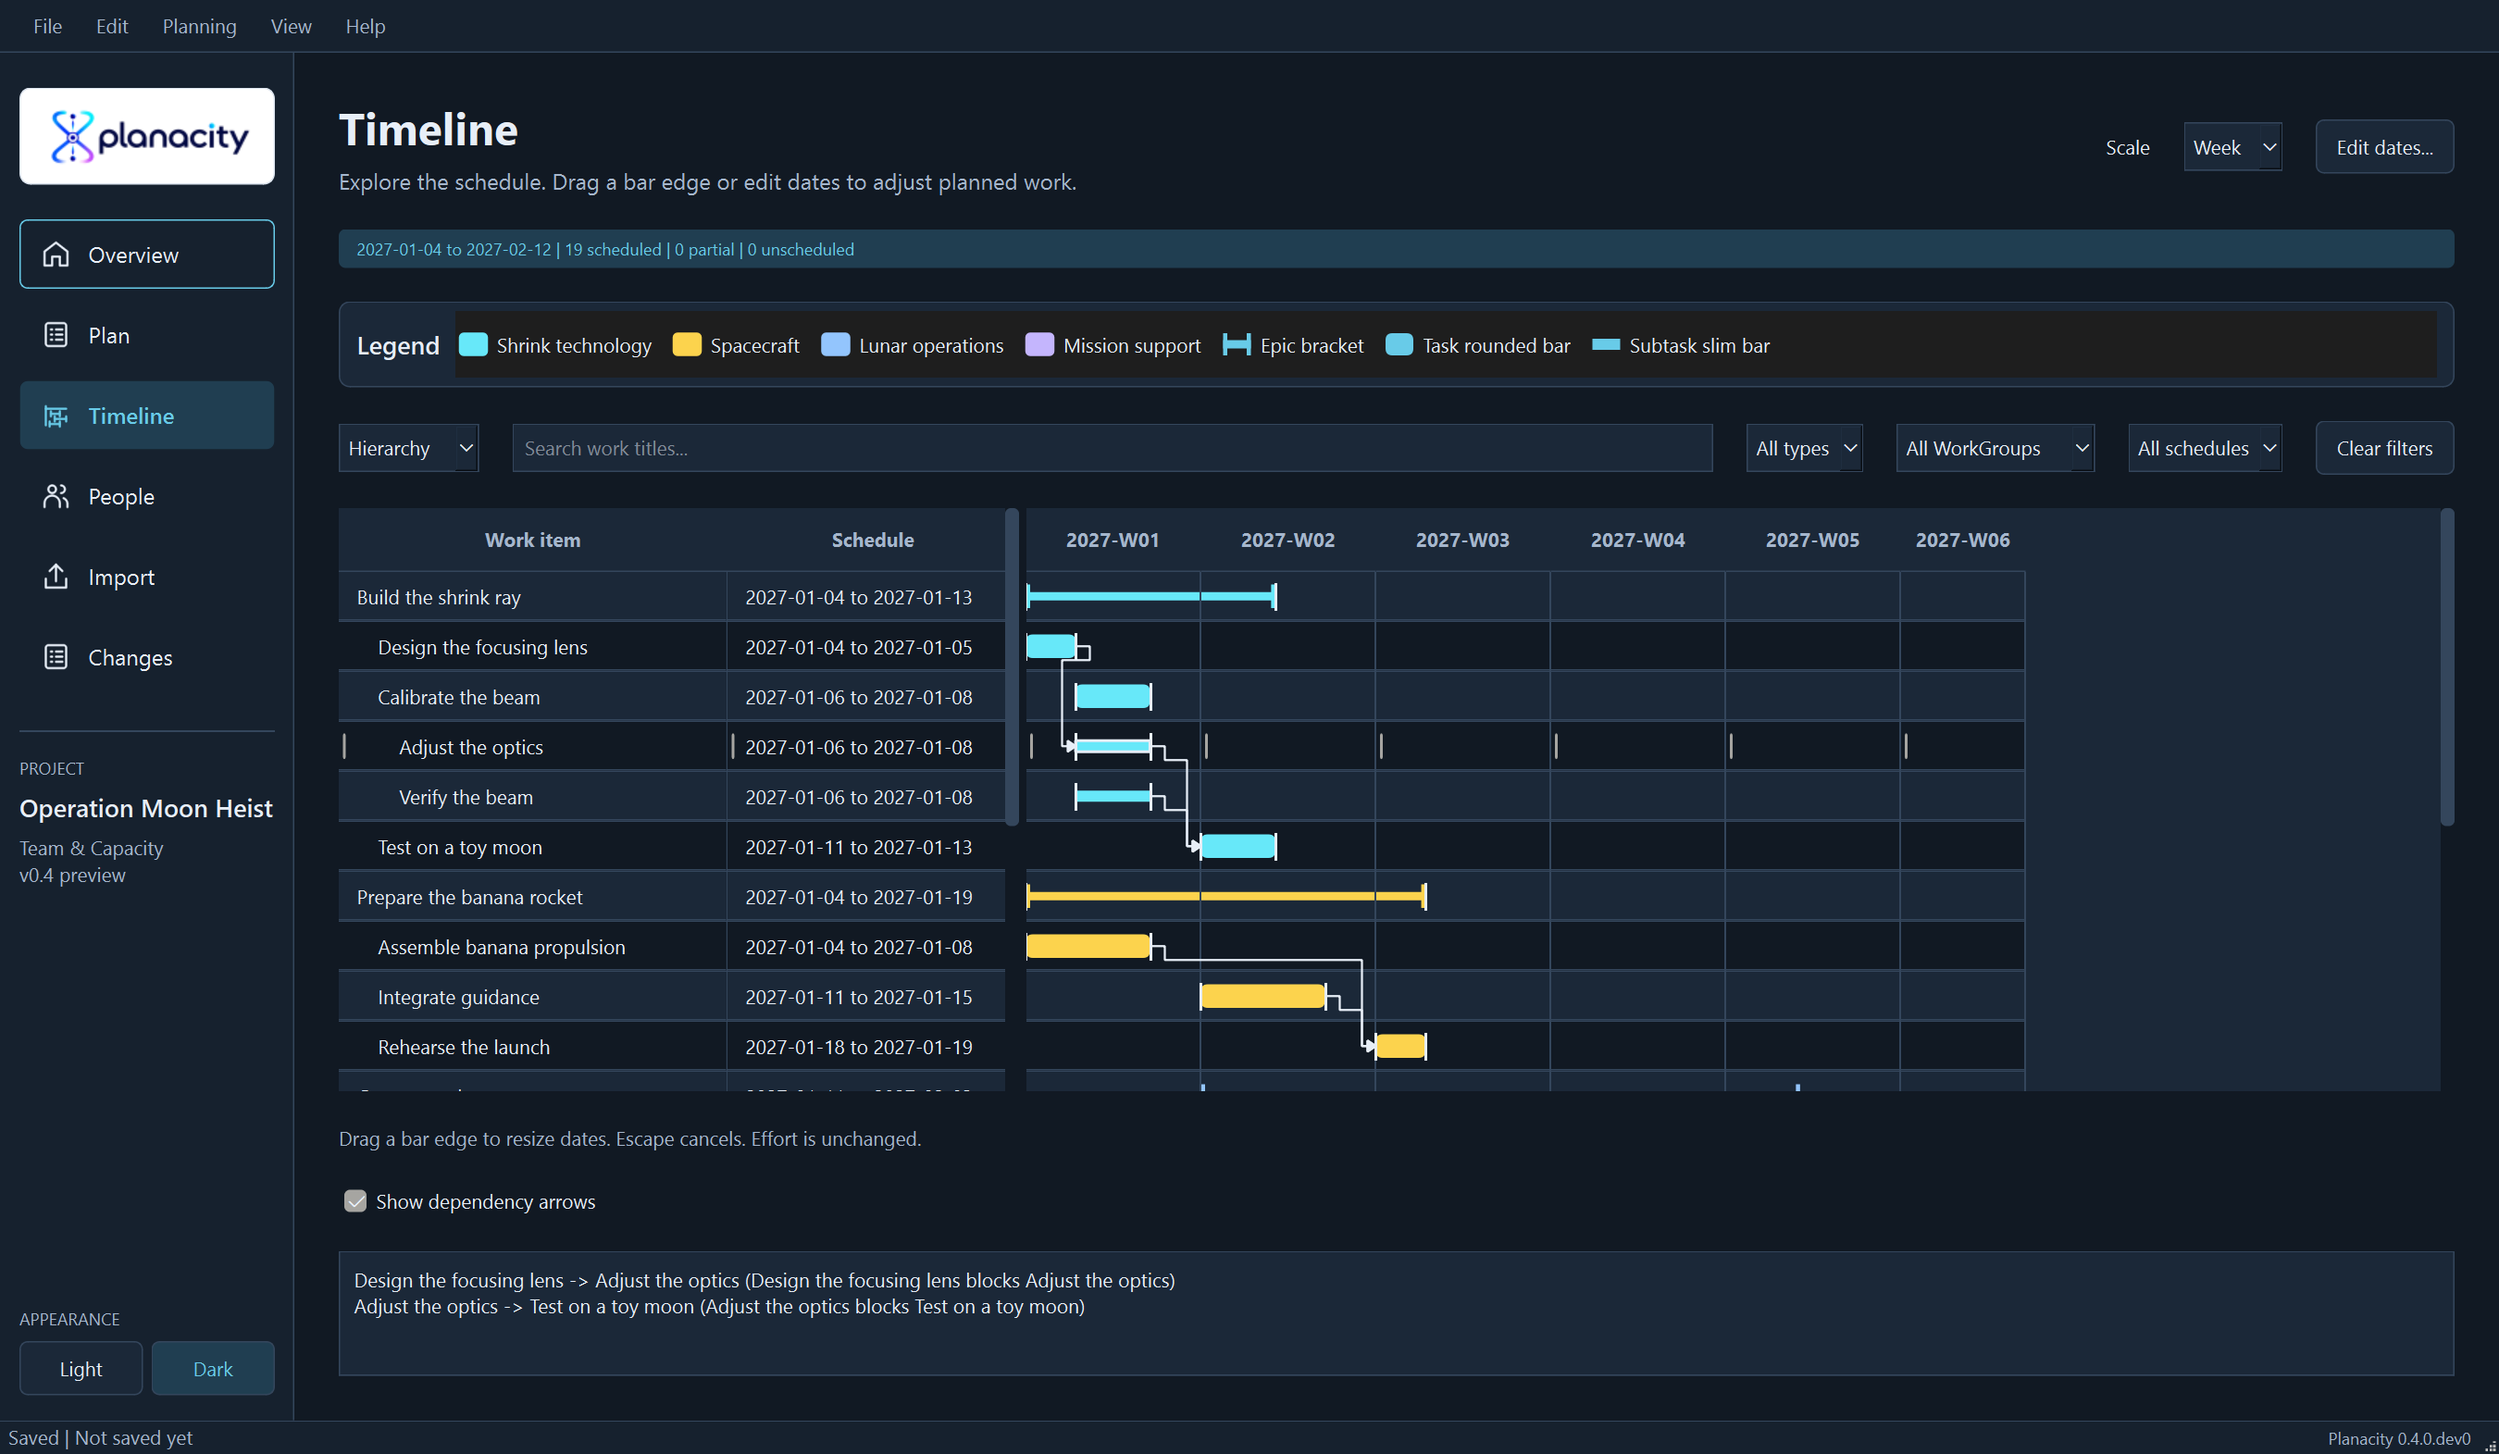
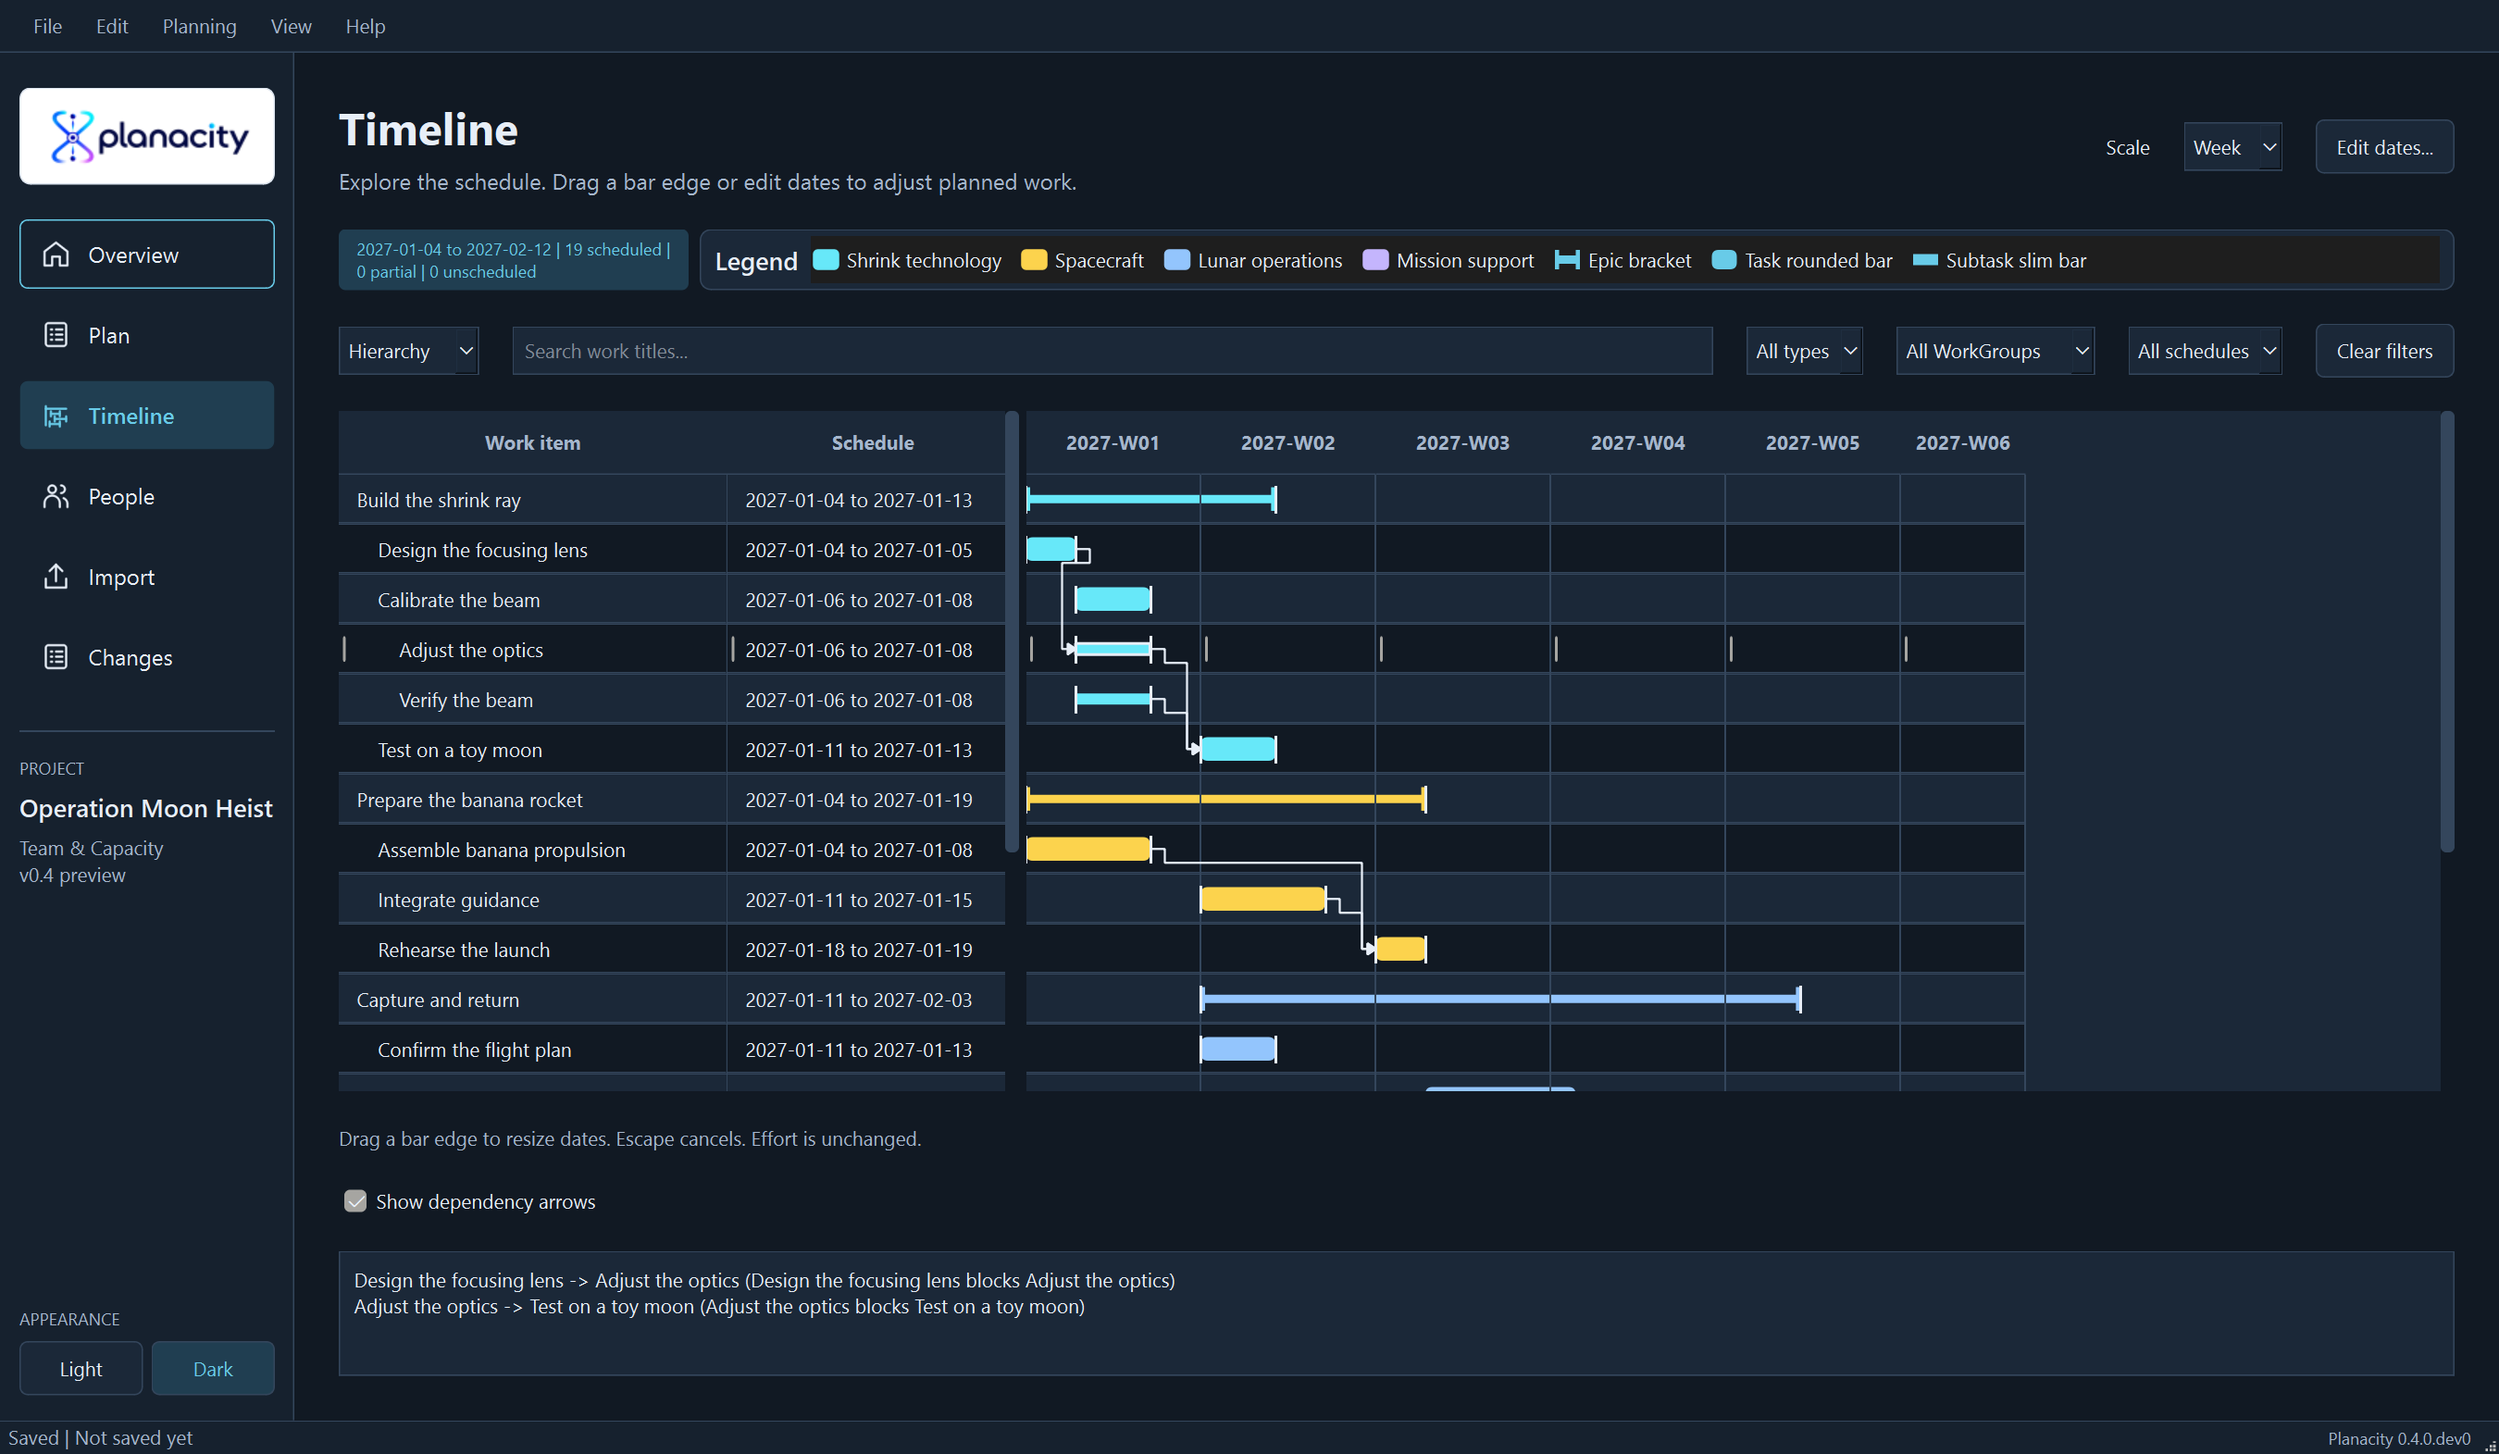
fix(timeline): keep legend compact

Changed region(s): [[0.1244, 0.156, 0.9956, 0.7486], [0.7778, 0.5614, 0.8089, 0.7486], [0.9644, 0.5614, 0.9956, 0.5926]]

diff --git a/src/planacity/ui/timeline.py b/src/planacity/ui/timeline.py
@@ -270,7 +270,7 @@ class _LegendSwatch(QWidget):
         super().__init__()
         self.identity = identity
         self.shape = shape
-        self.setFixedSize(26, 22)
+        self.setFixedSize(22, 18)
         name = (
             identity.label
             if identity is not None
@@ -283,7 +283,7 @@ class _LegendSwatch(QWidget):
     def paintEvent(self, event: QPaintEvent) -> None:
         painter = QPainter(self)
         painter.setRenderHint(QPainter.RenderHint.Antialiasing)
-        rect = QRectF(3, 3, self.width() - 6, self.height() - 6)
+        rect = QRectF(2, 2, self.width() - 4, self.height() - 4)
         theme = _active_theme(self)
         if self.identity is not None:
             color = QColor(self.identity.color(theme))
@@ -318,8 +318,8 @@ class TimelineLegend(QFrame):
         self.setProperty("role", "panel")
         self.setAccessibleName("Timeline legend")
         layout = QHBoxLayout(self)
-        layout.setContentsMargins(12, 6, 12, 6)
-        layout.setSpacing(10)
+        layout.setContentsMargins(10, 0, 10, 0)
+        layout.setSpacing(8)
         heading = QLabel("Legend")
         heading.setProperty("role", "heading")
         layout.addWidget(heading)
@@ -332,7 +332,7 @@ class TimelineLegend(QFrame):
         scroll.setWidgetResizable(True)
         scroll.setVerticalScrollBarPolicy(Qt.ScrollBarPolicy.ScrollBarAlwaysOff)
         scroll.setHorizontalScrollBarPolicy(Qt.ScrollBarPolicy.ScrollBarAsNeeded)
-        scroll.setFixedHeight(48)
+        scroll.setFixedHeight(34)
         scroll.setWidget(self.items)
         layout.addWidget(scroll, 1)
         self.set_projection(None)
@@ -576,9 +576,13 @@ class TimelinePage(WorkspacePage):
         self._resized_columns: set[int] = set()
         self.summary = label("Open a project to see its schedule.", "badge")
         self.summary.setAccessibleName("Timeline summary")
-        self.content.addWidget(self.summary)
         self.legend = TimelineLegend()
-        self.content.addWidget(self.legend)
+        status = QHBoxLayout()
+        status.setContentsMargins(0, 0, 0, 0)
+        status.setSpacing(8)
+        status.addWidget(self.summary)
+        status.addWidget(self.legend, 1)
+        self.content.addLayout(status)
         self.grouping_box = QComboBox()
         for grouping_choice in TimelineGrouping:
             self.grouping_box.addItem(grouping_choice.value.title(), grouping_choice.value)
